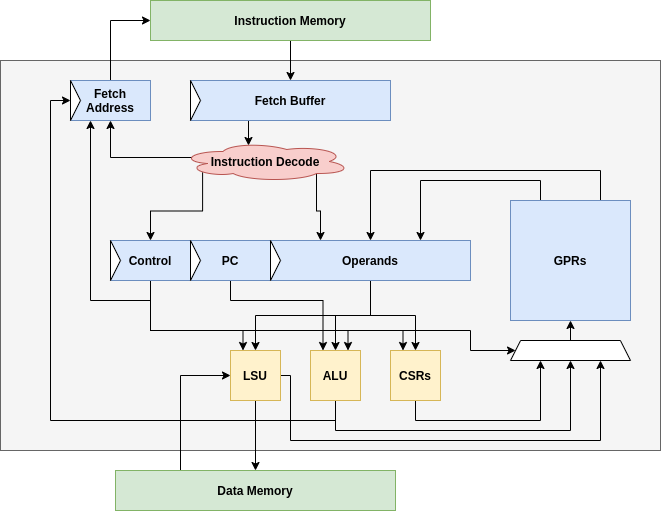
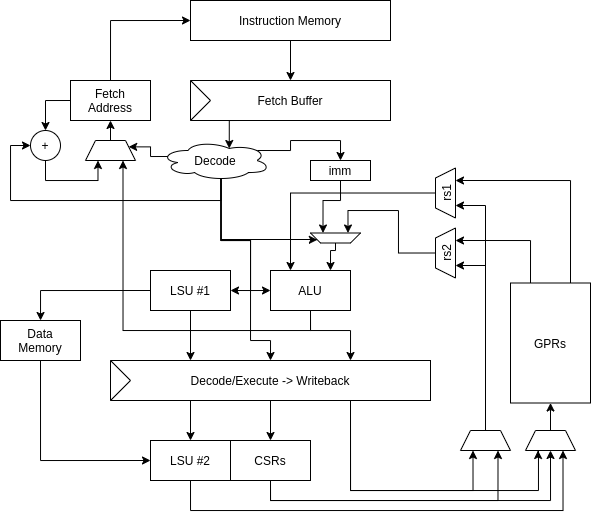
docs: Pipeline and instruction listing
- Updating before pipeline re-write.

 On branch dev/pipeline-rewrite
 Changes to be committed:
	modified:   docs/instruction-listing.md
	modified:   docs/pipeline-diagram.drawio
	modified:   docs/pipeline-diagram.png
	modified:   docs/pipeline.md

diff --git a/docs/instruction-listing.md b/docs/instruction-listing.md
@@ -6,117 +6,121 @@ operand assignments inside the pipeline.*
 
 ---
 
-Mnemonic  | `opr_a` | `opr_b` | `opr_c` | ALU Op | CFU OP |
-----------|---------|---------|---------|--------|--------|------------------
-beq       | rs1     | rs2     | imm     | SUB    | BEQ    |
-bne       | rs1     | rs2     | imm     | SUB    | BNE    |
-c.beqz    | rs1     | rs2     | imm     | SUB    | BEQ    |
-c.bnez    | rs1     | rs2     | imm     | SUB    | BNE    |
-blt       | rs1     | rs2     | imm     | SUB    | BLT    |
-bge       | rs1     | rs2     | imm     | SUB    | BGE    |
-bltu      | rs1     | rs2     | imm     | SUB    | BLTU   |
-bgeu      | rs1     | rs2     | imm     | SUB    | BGEU   |
-jalr      | rs1     | imm     | npc     | ADD    | JAL    |
-jal       | PC      | imm     | npc     | ADD    | JAL    |
-c.j       | PC      | imm     |         | ADD    | J      |
-c.jr      | rs1     | 0       |         | ADD    | J      |
-c.jalr    | rs1     | imm     | npc     | ADD    | JALR   |
-ecall     |         |         |         | NOP    | ECALL  |
-ebreak    |         |         |         | NOP    | EBREAK |
-mret      | rs1     |         |         | NOP    | MRET   |
-wfi       |         |         |         | NOP    | NOP    |
-fence.i   | npc     |         | npc     | NOP    | NOP    |
+Mnemonic  | ALU LHS | ALU RHS | ALU Op | CFU OP | WB Op | s2 wdata | s2 trap
+----------|---------|---------|--------|--------|-------|----------|--------
+beq       | rs1     | rs2     | SUB    | BEQ    |       |          |
+bne       | rs1     | rs2     | SUB    | BNE    |       |          |
+c.beqz    | rs1     | rs2     | SUB    | BEQ    |       |          |
+c.bnez    | rs1     | rs2     | SUB    | BNE    |       |          |
+blt       | rs1     | rs2     | SUB    | BLT    |       |          |
+bge       | rs1     | rs2     | SUB    | BGE    |       |          |
+bltu      | rs1     | rs2     | SUB    | BLTU   |       |          |
+bgeu      | rs1     | rs2     | SUB    | BGEU   |       |          |
+jalr      |         |         |        | JAL    | wdata | npn      |
+jal       |         |         |        | JAL    | wdata | npc      |
+c.jalr    |         |         |        | JALR   | wdata | npc      |
+c.j       |         |         |        | J      |       |          |
+c.jr      |         |         |        | J      |       |          |
+ecall     |         |         |        | ECALL  |       |          | 1
+ebreak    |         |         |        | EBREAK |       |          | 1
+mret      |         |         |        | MRET   |       |          |
+wfi       |         |         |        | NOP    |       |          |
 
-Mnemonic  | `opr_a` | `opr_b` | `opr_c` | ALU Op |
-----------|---------|---------|---------|--------|---------------------------
-lui       | 0       | imm     |         | OR     |
-auipc     | PC      | imm     |         | ADD    |
-addi      | rs1     | imm     |         | ADD    |
-c.addi4spn| rs1     | imm     |         | ADD    |
-c.addi    | rs1     | imm     |         | ADD    |
-slli      | rs1     | imm     |         | SLL    |
-c.mv      | 0       | rs1     |         | OR     |
-c.add     | rs1     | rs2     |         | ADD    |
-c.slli    | rs1     | imm     |         | SLL    |
-slti      | rs1     | imm     |         | SLT    |
-sltiu     | rs1     | imm     |         | SLTU   |
-xori      | rs1     | imm     |         | XOR    |
-srli      | rs1     | imm     |         | SLR    |
-srai      | rs1     | imm     |         | SRA    |
-ori       | rs1     | imm     |         | OR     |
-andi      | rs1     | imm     |         | AND    |
-add       | rs1     | rs2     |         | ADD    |
-sub       | rs1     | rs2     |         | SUB    |
-sll       | rs1     | rs2     |         | SLL    |
-slt       | rs1     | rs2     |         | SLT    |
-sltu      | rs1     | rs2     |         | SLTU   |
-xor       | rs1     | rs2     |         | XOR    |
-srl       | rs1     | rs2     |         | SLR    |
-sra       | rs1     | rs2     |         | SRA    |
-or        | rs1     | rs2     |         | OR     |
-and       | rs1     | rs2     |         | AND    |
-addiw     | rs1     | imm     |         | ADD    |
-slliw     | rs1     | imm     |         | SLL    |
-srliw     | rs1     | imm     |         | SLR    |
-sraiw     | rs1     | imm     |         | SRA    |
-addw      | rs1     | rs2     |         | ADD    |
-subw      | rs1     | rs2     |         | SUB    |
-sllw      | rs1     | rs2     |         | SLL    |
-srlw      | rs1     | rs2     |         | SLR    |
-sraw      | rs1     | rs2     |         | SRA    |
-c.li      |   0     | imm     |         | OR     |
-c.lui     |   0     | imm     |         | OR     |
-c.srli    | rs1     | imm     |         | SLR    |
-c.srai    | rs1     | imm     |         | SRA    |
-c.andi    | rs1     | imm     |         | AND    |
-c.sub     | rs1     | rs2     |         | SUB    |
-c.xor     | rs1     | rs2     |         | XOR    |
-c.or      | rs1     | rs2     |         | OR     |
-c.and     | rs1     | rs2     |         | AND    |
-c.subw    | rs1     | rs2     |         | SUB    |
-c.addw    | rs1     | rs2     |         | ADD    |
-fence     |         |         |         | NOP    |
+Mnemonic  | ALU LHS | ALU RHS | ALU Op | WB Op | s2 wdata | 
+----------|---------|---------|--------|-------|----------|-------
+c.mv      | rs1     | 0       | OR     | wdata | alu out  | 
+c.li      |   0     | imm     | OR     | wdata | alu out  | 
+c.lui     |   0     | imm     | OR     | wdata | alu out  | 
+lui       | 0       | imm     | OR     | wdata | alu out  | 
+auipc     | PC      | imm     | ADD    | wdata | alu out  | 
+addi      | rs1     | imm     | ADD    | wdata | alu out  | 
+c.addi4spn| rs1     | imm     | ADD    | wdata | alu out  | 
+c.addi    | rs1     | imm     | ADD    | wdata | alu out  | 
+c.addiw   | rs1     | imm     | ADD    | wdata | alu out  | 
+slli      | rs1     | imm     | SLL    | wdata | alu out  | 
+c.slli    | rs1     | imm     | SLL    | wdata | alu out  | 
+slti      | rs1     | imm     | SLT    | wdata | alu out  | 
+sltiu     | rs1     | imm     | SLTU   | wdata | alu out  | 
+xori      | rs1     | imm     | XOR    | wdata | alu out  | 
+srli      | rs1     | imm     | SLR    | wdata | alu out  | 
+srai      | rs1     | imm     | SRA    | wdata | alu out  | 
+ori       | rs1     | imm     | OR     | wdata | alu out  | 
+andi      | rs1     | imm     | AND    | wdata | alu out  | 
+addiw     | rs1     | imm     | ADD    | wdata | alu out  | 
+slliw     | rs1     | imm     | SLL    | wdata | alu out  | 
+srliw     | rs1     | imm     | SLR    | wdata | alu out  | 
+sraiw     | rs1     | imm     | SRA    | wdata | alu out  | 
+c.srli    | rs1     | imm     | SLR    | wdata | alu out  | 
+c.srai    | rs1     | imm     | SRA    | wdata | alu out  | 
+c.andi    | rs1     | imm     | AND    | wdata | alu out  | 
+c.add     | rs1     | rs2     | ADD    | wdata | alu out  | 
+add       | rs1     | rs2     | ADD    | wdata | alu out  | 
+sub       | rs1     | rs2     | SUB    | wdata | alu out  | 
+sll       | rs1     | rs2     | SLL    | wdata | alu out  | 
+slt       | rs1     | rs2     | SLT    | wdata | alu out  | 
+sltu      | rs1     | rs2     | SLTU   | wdata | alu out  | 
+xor       | rs1     | rs2     | XOR    | wdata | alu out  | 
+srl       | rs1     | rs2     | SLR    | wdata | alu out  | 
+sra       | rs1     | rs2     | SRA    | wdata | alu out  | 
+or        | rs1     | rs2     | OR     | wdata | alu out  | 
+and       | rs1     | rs2     | AND    | wdata | alu out  | 
+addw      | rs1     | rs2     | ADD    | wdata | alu out  | 
+subw      | rs1     | rs2     | SUB    | wdata | alu out  | 
+sllw      | rs1     | rs2     | SLL    | wdata | alu out  | 
+srlw      | rs1     | rs2     | SLR    | wdata | alu out  | 
+sraw      | rs1     | rs2     | SRA    | wdata | alu out  | 
+c.sub     | rs1     | rs2     | SUB    | wdata | alu out  | 
+c.xor     | rs1     | rs2     | XOR    | wdata | alu out  | 
+c.or      | rs1     | rs2     | OR     | wdata | alu out  | 
+c.and     | rs1     | rs2     | AND    | wdata | alu out  | 
+c.subw    | rs1     | rs2     | SUB    | wdata | alu out  | 
+c.addw    | rs1     | rs2     | ADD    | wdata | alu out  | 
+fence     |         |         | NOP    | wdata | alu out  | 
 
-Mnemonic  | `opr_a` | `opr_b` | `opr_c` | ALU Op |
-----------|---------|---------|---------|--------|--------------------------
-lb        | rs1     | imm     |         | ADD    |
-lh        | rs1     | imm     |         | ADD    |
-lw        | rs1     | imm     |         | ADD    |
-c.lw      | rs1     | imm     |         | ADD    |
-ld        | rs1     | imm     |         | ADD    |
-lbu       | rs1     | imm     |         | ADD    |
-lhu       | rs1     | imm     |         | ADD    |
-lwu       | rs1     | imm     |         | ADD    |
-sb        | rs1     | imm     | rs2     | ADD    |
-sh        | rs1     | imm     | rs2     | ADD    |
-sw        | rs1     | imm     | rs2     | ADD    |
-c.sw      | rs1     | imm     | rs2     | ADD    |
-sd        | rs1     | imm     | rs2     | ADD    |
-c.lwsp    | rs1     | imm     | rs2     | ADD    |
-c.swsp    | rs1     | imm     | rs2     | ADD    |
+Mnemonic  | ALU LHS | ALU RHS | ALU Op | lsu op | wb op |
+----------|---------|---------|--------|--------|-------|----------
+lb        | rs1     | imm     | ADD    | l b    | lsu   |
+lh        | rs1     | imm     | ADD    | l h    | lsu   |
+lw        | rs1     | imm     | ADD    | l w    | lsu   |
+c.lw      | rs1     | imm     | ADD    | l w    | lsu   |
+ld        | rs1     | imm     | ADD    | l d    | lsu   |
+c.ld      | rs1     | imm     | ADD    | l d    | lsu   |
+lbu       | rs1     | imm     | ADD    | l b u  | lsu   |
+lhu       | rs1     | imm     | ADD    | l h u  | lsu   |
+lwu       | rs1     | imm     | ADD    | l w u  | lsu   |
+c.lwsp    | rs1     | imm     | ADD    | l w    | lsu   |
+c.ldsp    | rs1     | imm     | ADD    | l d    | lsu   |
+sb        | rs1     | imm     | ADD    | s b    | lsu   |
+sh        | rs1     | imm     | ADD    | s h    | lsu   |
+sw        | rs1     | imm     | ADD    | s w    | lsu   |
+c.sw      | rs1     | imm     | ADD    | s w    | lsu   |
+sd        | rs1     | imm     | ADD    | s d    | lsu   |
+c.sd      | rs1     | imm     | ADD    | s d    | lsu   |
+c.swsp    | rs1     | imm     | ADD    | s w    | lsu   |
+c.sdsp    | rs1     | imm     | ADD    | s d    | lsu   |
 
-Mnemonic  | `opr_a` | `opr_b` | `opr_c` | MDU Op |
-----------|---------|---------|---------|--------|--------------------------
-mul       | rs1     | rs2     |         | MUL    |
-mulh      | rs1     | rs2     |         | MULH   |
-mulhsu    | rs1     | rs2     |         | MULHSU |
-mulhu     | rs1     | rs2     |         | MULHU  |
-div       | rs1     | rs2     |         | DIV    |
-divu      | rs1     | rs2     |         | DIVU   |
-rem       | rs1     | rs2     |         | REM    |
-remu      | rs1     | rs2     |         | REMU   |
-mulw      | rs1     | rs2     |         | MUL    |
-divw      | rs1     | rs2     |         | DIV    |
-divuw     | rs1     | rs2     |         | DIVU   |
-remw      | rs1     | rs2     |         | REM    |
-remuw     | rs1     | rs2     |         | REMU   |
+Mnemonic  | MDU LHS | MDU LHS | MDU Op | wb op   | wdata |
+----------|---------|---------|--------|---------|-------|-----------
+mul       | rs1     | rs2     | MUL    | mdu out | mdu   |
+mulh      | rs1     | rs2     | MULH   | mdu out | mdu   |
+mulhsu    | rs1     | rs2     | MULHSU | mdu out | mdu   |
+mulhu     | rs1     | rs2     | MULHU  | mdu out | mdu   |
+div       | rs1     | rs2     | DIV    | mdu out | mdu   |
+divu      | rs1     | rs2     | DIVU   | mdu out | mdu   |
+rem       | rs1     | rs2     | REM    | mdu out | mdu   |
+remu      | rs1     | rs2     | REMU   | mdu out | mdu   |
+mulw      | rs1     | rs2     | MUL    | mdu out | mdu   |
+divw      | rs1     | rs2     | DIV    | mdu out | mdu   |
+divuw     | rs1     | rs2     | DIVU   | mdu out | mdu   |
+remw      | rs1     | rs2     | REM    | mdu out | mdu   |
+remuw     | rs1     | rs2     | REMU   | mdu out | mdu   |
 
-Mnemonic  | `opr_a` | `opr_b` | `opr_c` | CSR OP |
-----------|---------|---------|---------|--------|---------------------------
-csrrw     | rs1     | rs2     | csr     |
-csrrs     | rs1     | rs2     | csr     |
-csrrc     | rs1     | rs2     | csr     |
-csrrwi    | rs1     | imm     | csr     |
-csrrsi    | rs1     | imm     | csr     |
-csrrci    | rs1     | imm     | csr     |
+Mnemonic  | ALU LHS | ALU RHS | ALU OP  | CSR OP | wb op |
+----------|---------|---------|---------|--------|-------|-----------
+csrrw     | rs1     | 0       | OR      | rw     | csr   |
+csrrs     | rs1     | 0       | OR      | rs     | csr   |
+csrrc     | rs1     | 0       | OR      | rc     | csr   |
+csrrwi    | rs1     | 0       | OR      | rw     | csr   |
+csrrsi    | rs1     | 0       | OR      | rs     | csr   |
+csrrci    | rs1     | 0       | OR      | rc     | csr   |
 

diff --git a/docs/pipeline.md b/docs/pipeline.md
@@ -32,18 +32,13 @@
 
     Bits | Name      | Description
     -----|-----------|-----------------------------------------------------
-     PCW | `s1_pc`   | Program Counter valid in the decode stage.
      32  | `s1_instr`| 32-bit instruction word ready for decoding.
      1   | `s1_ferr` | Fetch error associated with these `s1_instr` bits?
+     1   | `s1_i16bit`| Eat a 16 bit instruction from the buffer.
+     1   | `s1_i32bit`| Eat a 32 bit instruction from the buffer.
 
-- It uses the following control signals to communicate readiness with the
-  decode stage:
-
-    Bits | Name      | Driver | Description
-    -----|-----------|--------|---------------------------------------------
-     1   | `s1_valid`| fetch  | Is the data presented to decode valid?
-     1   | `s2_eat_2`| decode | Decode eats 2 bytes from decode buffer.
-     1   | `s2_eat_4`| decode | Decode eats 4 bytes from decode buffer.
+  Note that `s1_i[16/32]bit` are driven by the decode stage, other signals
+  are driven by the fetch stage.
     
 - The control flow change bus is driven from *either* decode *or*
   execute, and communicates all interrupts, exceptions, branches and jumps to
@@ -56,36 +51,32 @@
      64  | `cf_target`  | in  | Target address of the control flow change.
      4   | `cf_cause`   | in  | Cause of the control flow change.
 
-## Decode / Operand Gather
+## Decode / Execute
 
-- Turns the 32-bits of `s1_instr` into a wider pipeline encoding ready for
-  execution.
+- Decodes instructions and selects inputs to functional units.
 
-- Responsible for gathering register and program counter operands into the
-  right pipeline registers.
+- Computes data memory & branch target addresses using the ALU.
 
-- Can cause control flow changes for non-conditional branches and jumps.
+- Non-trap control flow changes take place here.
 
-- The pipeline register data fields presented to execute are:
+- The pipeline register data fields presented to writeback are:
 
     Bits | Name         | Description
     -----|--------------|---------------------------------------------
-     64  | `s3_opr_a`   | ALU / Branch operand A
-     64  | `s3_opr_b`   | B
-     64  | `s3_opr_c`   | C
-     64  | `s3_pc`      | Program counter for the instruction.
-      4  | `s3_fu`      | Which functional unit will process the instruction?
-      7  | `s3_op`      | Which operation to perform?
-      5  | `s3_rd`      | Destination writeback register.
+       1 | s2_valid     | Execute has instruction ready for writeback
+       1 | s2_ready     | Writeback ready for new instruction
+       2 | s2_full      | Instruction in writeback stage
+       5 | s2_rd        | Destination GPR
+    XLEN | s2_wdata     | Write data for CSRs / GPRs
+    XLEN | s2_pc        | Program counter for instruction
+       3 | s2_csr_op    | Control & Status Register operation
+       4 | s2_cfu_op    | Control flow change operations: mret/ebreak etc
+       5 | s2_lsu_op    | Load/store unit operation
+       2 | s2_wb_op     | Writeback data sourcing
+       1 | s2_trap      | Raise trap.
 
-## Execute
+## Writeback
 
-- Computes ALU results,
-  accesses CSRs,
-  accesses memory,
-  triggers conditional control flow changes
-  and
-  raises exceptions / interrupts.
+- This stage writes back data to the register file, accesses CSRs,
+  finalises control flow changes and finishes memory accesses.
 
-- Only this stage can write back to the register file.
- 
